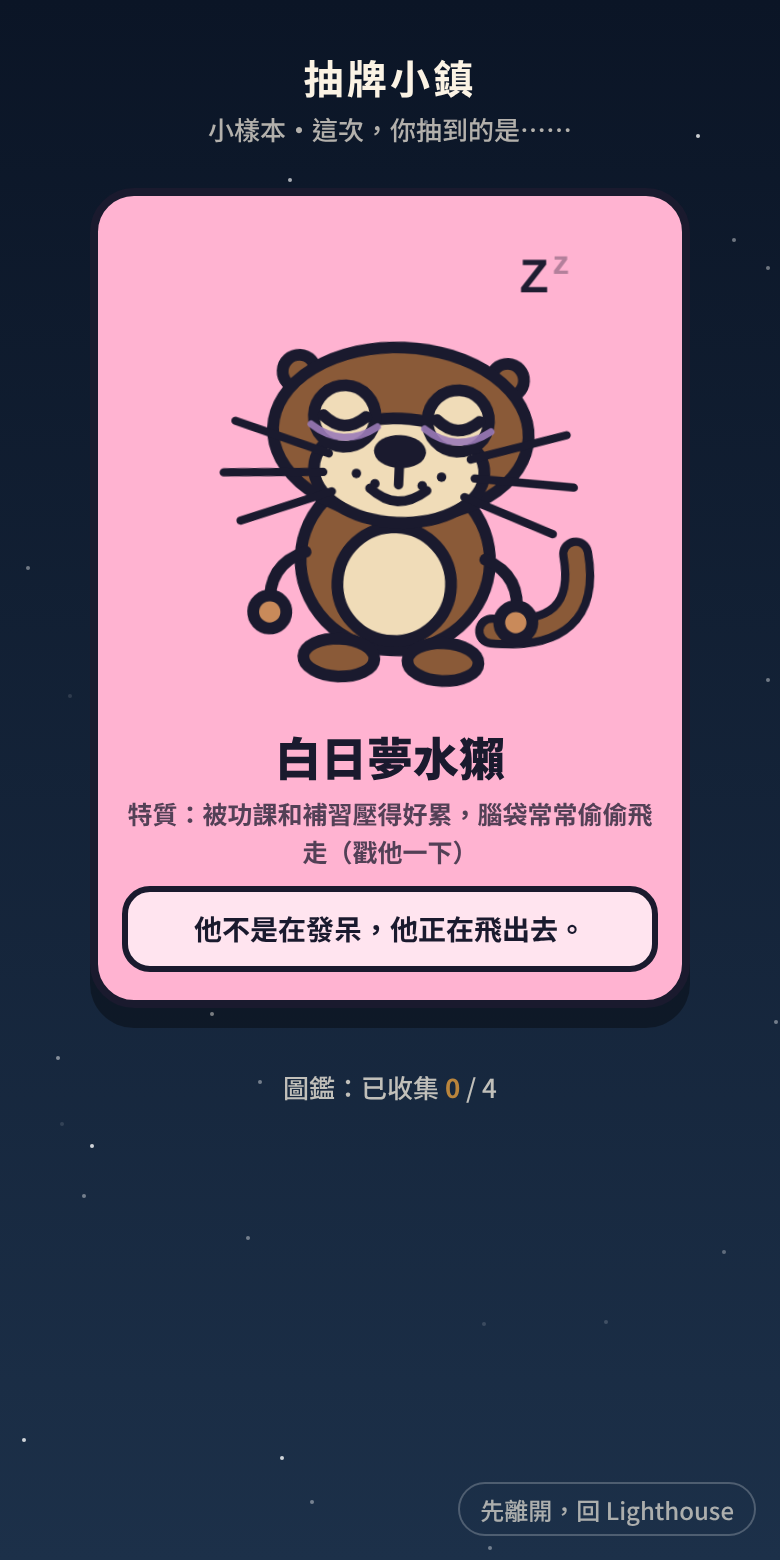
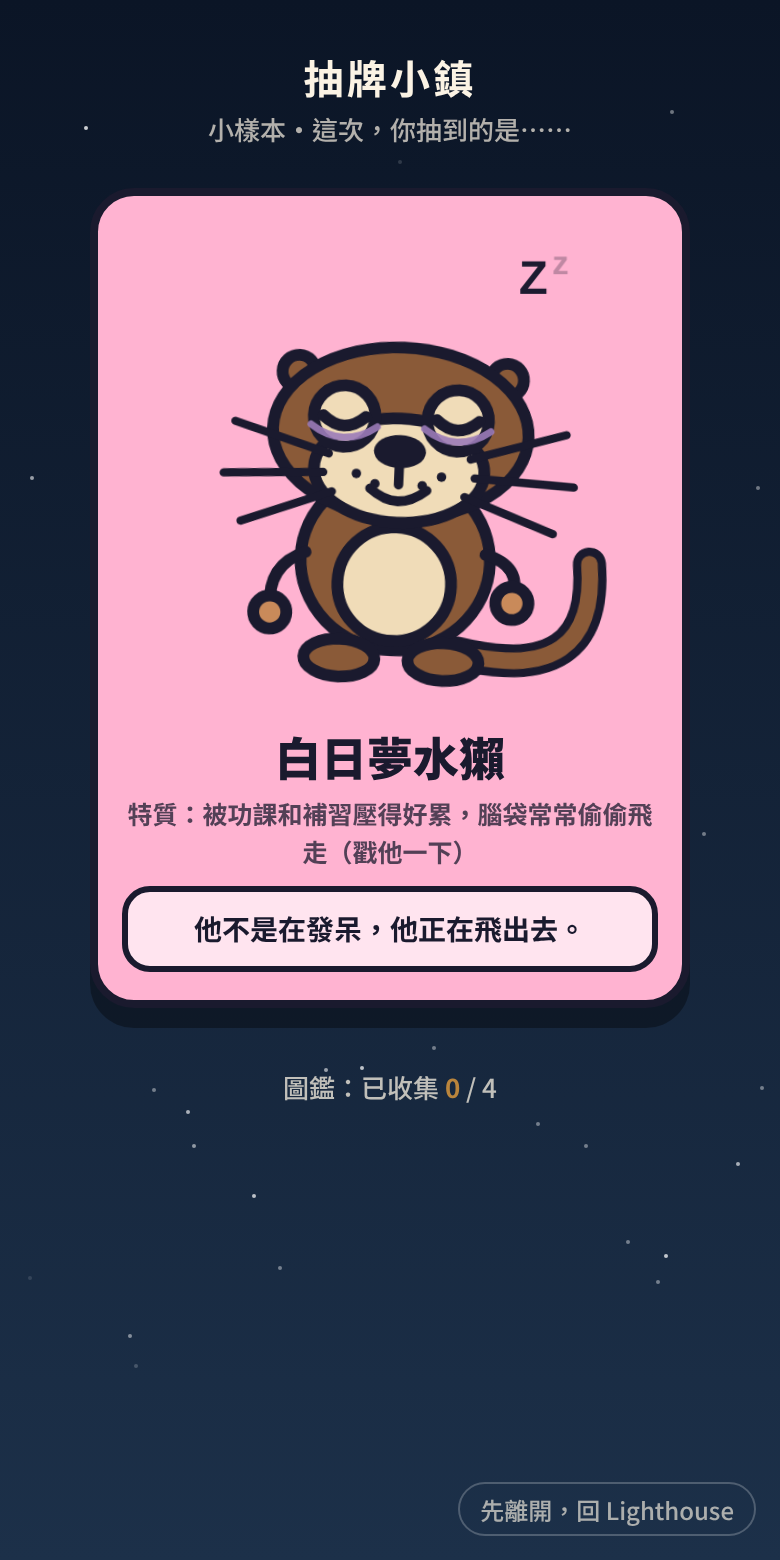
Lighthouse: 抽牌小樣本，修正水獺尾巴被手蓋住看起來斷掉
Claude-Session: https://claude.ai/code/session_01QMXbFy7GatcecM2zJaJAS8

Changed region(s): [[0.5846, 0.3385, 0.8, 0.4615], [0.6769, 0.1538, 0.7077, 0.1846]]

diff --git a/lighthouse/cards-sample.html b/lighthouse/cards-sample.html
@@ -114,7 +114,7 @@ const eyeSpiral = (x,y,r=12) => { let d = ""; for(let i = 0; i <= 44; i++){ cons
 const ART = {
   /* 白日夢水獺：被功課和補習壓得好累，常常偷偷幻想飛出去（沒有任何道具） */
   otter: `<svg viewBox="-6 -4 212 212"><g class="wob">
-    <path d="M142 168 Q184 170 176 134" fill="none" stroke="${INK}" stroke-width="14" stroke-linecap="round"/><path d="M142 168 Q184 170 176 134" fill="none" stroke="#8a5a38" stroke-width="7" stroke-linecap="round"/>
+    <path d="M128 178 Q188 190 182 138" fill="none" stroke="${INK}" stroke-width="14" stroke-linecap="round"/><path d="M128 178 Q188 190 182 138" fill="none" stroke="#8a5a38" stroke-width="7" stroke-linecap="round"/>
     <ellipse cx="100" cy="140" rx="40" ry="38" fill="#8a5a38" ${o}/>
     <ellipse cx="100" cy="150" rx="24" ry="24" fill="#f0dcb8" ${o}/>
     <ellipse cx="78" cy="182" rx="15" ry="8" fill="#8a5a38" ${o}/><ellipse cx="122" cy="182" rx="15" ry="8" fill="#8a5a38" ${o}/>
@@ -130,7 +130,7 @@ const ART = {
     <g class="sleepE"><circle cx="76" cy="80" r="13" fill="#f0dcb8" ${o}/><circle cx="124" cy="80" r="13" fill="#f0dcb8" ${o}/><path d="M67 80 Q76 88 85 80 M115 80 Q124 88 133 80" fill="none" stroke="${INK}" stroke-width="5" stroke-linecap="round"/></g>
     <g class="awakeE"><circle cx="76" cy="80" r="17" fill="#fff" ${o}/><circle cx="124" cy="80" r="17" fill="#fff" ${o}/><circle cx="76" cy="80" r="3.2" fill="${INK}"/><circle cx="124" cy="80" r="3.2" fill="${INK}"/><path d="M58 56 Q74 46 90 58 M110 58 Q126 46 142 56" fill="none" stroke="${INK}" stroke-width="5" stroke-linecap="round"/><path d="M40 70 L28 64 M42 56 L32 46" stroke="${INK}" stroke-width="3.5" stroke-linecap="round"/></g>
     <path d="M62 84 Q76 94 90 84 M110 84 Q124 94 138 84" fill="none" stroke="#9b7bb8" stroke-width="3" stroke-linecap="round" opacity=".9"/>
-    <path d="M138 138 Q154 144 152 162" fill="none" stroke="${INK}" stroke-width="5" stroke-linecap="round"/><circle cx="152" cy="164" r="7" fill="#c98a5a" ${o}/>
+    <path d="M138 136 Q154 140 150 154" fill="none" stroke="${INK}" stroke-width="5" stroke-linecap="round"/><circle cx="150" cy="156" r="7" fill="#c98a5a" ${o}/>
     </g>
     <g class="zz" fill="${INK}" font-weight="900" font-family="sans-serif"><text x="150" y="30" font-size="20">Z</text></g>
     <g class="zz" style="animation-delay:.7s" fill="${INK}" font-weight="900" font-family="sans-serif"><text x="168" y="14" font-size="14">z</text></g>
